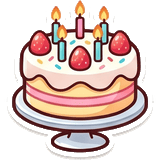
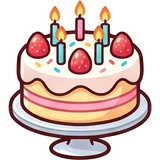
お願いメーター減速(70%)・全ブロック1.5倍・当たり判定を球形でシビアに・スプーンのみスプーン形・ケーキ透過を再キーイング
- BONUS注文の残り時間メーターの減少速度を70%に(バーが約1.43倍長持ち)
- 全お菓子(RAD ×1.5)とスプーン(OBW/OBH ×1.5)を1.5倍に拡大、SETTLE調整
- 合体判定をRAD合計×1.0でシビアに(球形・密着)
- スプーンをbowl(円)+handle(角丸矩形)の複合ボディでスプーン形状の当たり判定に
- ショートケーキ/ホールケーキを連結成分分離+高しきい値で透過を再キーイング

diff --git a/index.html b/index.html
@@ -99,12 +99,12 @@
 <script>
 (function(){
   const cv=document.getElementById('m-canvas'),ctx=cv.getContext('2d');
-  const W=300,H=440,LINE=56,GAMETIME=120,CAP=7,FEVERWIN=3500,FEVERDUR=5000,GOLDP=0.07,OBSTP=0.07,OBW=42,OBH=72,SETTLE=2.2;
+  const W=300,H=440,LINE=56,GAMETIME=120,CAP=7,FEVERWIN=3500,FEVERDUR=5000,GOLDP=0.07,OBSTP=0.07,OBW=63,OBH=108,SETTLE=2.6;
   const DPR=Math.min(window.devicePixelRatio||1,2.5);
   cv.width=Math.round(W*DPR);cv.height=Math.round(H*DPR);ctx.scale(DPR,DPR);
   const EMOJI=['🍬','🍪','🧁','🍩','🍰','🍮','🍦','🎂'];
   const COL=['#ffd1dc','#caa06a','#f7c977','#df9457','#ffb3c6','#e6c061','#bfe3ff','#ff8fab'];
-  const RAD=[10,16,20,25,31,38,46,55];
+  const RAD=[15,24,30,38,47,57,69,83];
   const PARTYCOL=['#ff4d88','#ffd864','#7ddca4','#7ec8ff','#c89bff','#ffa552'];
   const GOLDCOL=['#ffd23f','#fff2b0','#ffe27a','#ffcf2e'];
   const CRAVE={3:'ドーナツ ちょうだい！',4:'ケーキ たべたい！',5:'プリン ほしい〜！'};
@@ -194,7 +194,7 @@
     for(let t=3;t<=5;t++){if(blocksOf(t)<=maxB&&cnt[t]<2){for(let k=0;k<w[t];k++)pool.push(t);}}
     return pool.length?pool[Math.floor(Math.random()*pool.length)]:null;}
   function makeReq(t,now){const b=blocksOf(t);const kind=Math.random()<0.6?'score':'time';
-    const d=Math.round(durOf(b)*(feverActive?0.6:1));
+    const d=Math.round(durOf(b)*(feverActive?0.6:1)/0.7);
     return {tier:t,blocks:b,kind,dur:d,expire:now+d};}
   function usedBlocks(){return requests.reduce((s,r)=>s+r.blocks,0);}
   function fillRequests(now){let g=0,add=false;while(usedBlocks()<CAP&&g++<20){const t=pickTier(CAP-usedBlocks());if(t==null)break;requests.push(makeReq(t,now));add=true;}return add;}
@@ -242,7 +242,12 @@
     Composite.add(world,b);return b;
   }
   function addObstacle(x,y){
-    const b=Bodies.rectangle(x,y,OBW,OBH,{restitution:0.04,friction:0.6,frictionStatic:0.9,density:0.0022,sleepThreshold:28,chamfer:{radius:6}});
+    const bw=OBW,bh=OBH,br=bw*0.5;
+    const opt={density:0.0022,restitution:0.04,friction:0.6,frictionStatic:0.9};
+    const bowl=Bodies.circle(0,-bh*0.5+br,br,opt);
+    const handle=Bodies.rectangle(0,bh*0.14,bw*0.42,bh*0.72,Object.assign({chamfer:{radius:bw*0.18}},opt));
+    const b=Body.create({parts:[bowl,handle],sleepThreshold:28});
+    Body.setPosition(b,{x,y});
     b.obst=true;b.tier='X';b.oh=OBH;b.bornAt=performance.now();
     Composite.add(world,b);return b;
   }
@@ -303,7 +308,7 @@
       if(Math.hypot(a.velocity.x,a.velocity.y)>=SETTLE)continue;
       for(let j=i+1;j<bs.length;j++){const b=bs[j];
         if(b.merged||a.tier!==b.tier||Math.hypot(b.velocity.x,b.velocity.y)>=SETTLE)continue;
-        const dx=a.position.x-b.position.x,dy=a.position.y-b.position.y,rr=(RAD[a.tier]+RAD[b.tier])*1.02;
+        const dx=a.position.x-b.position.x,dy=a.position.y-b.position.y,rr=(RAD[a.tier]+RAD[b.tier])*1.0;
         if(dx*dx+dy*dy<=rr*rr){a.merged=b.merged=true;pending.push([a,b]);break;}}}
   }
   function spawnBurst(x,y,n,power,cols){